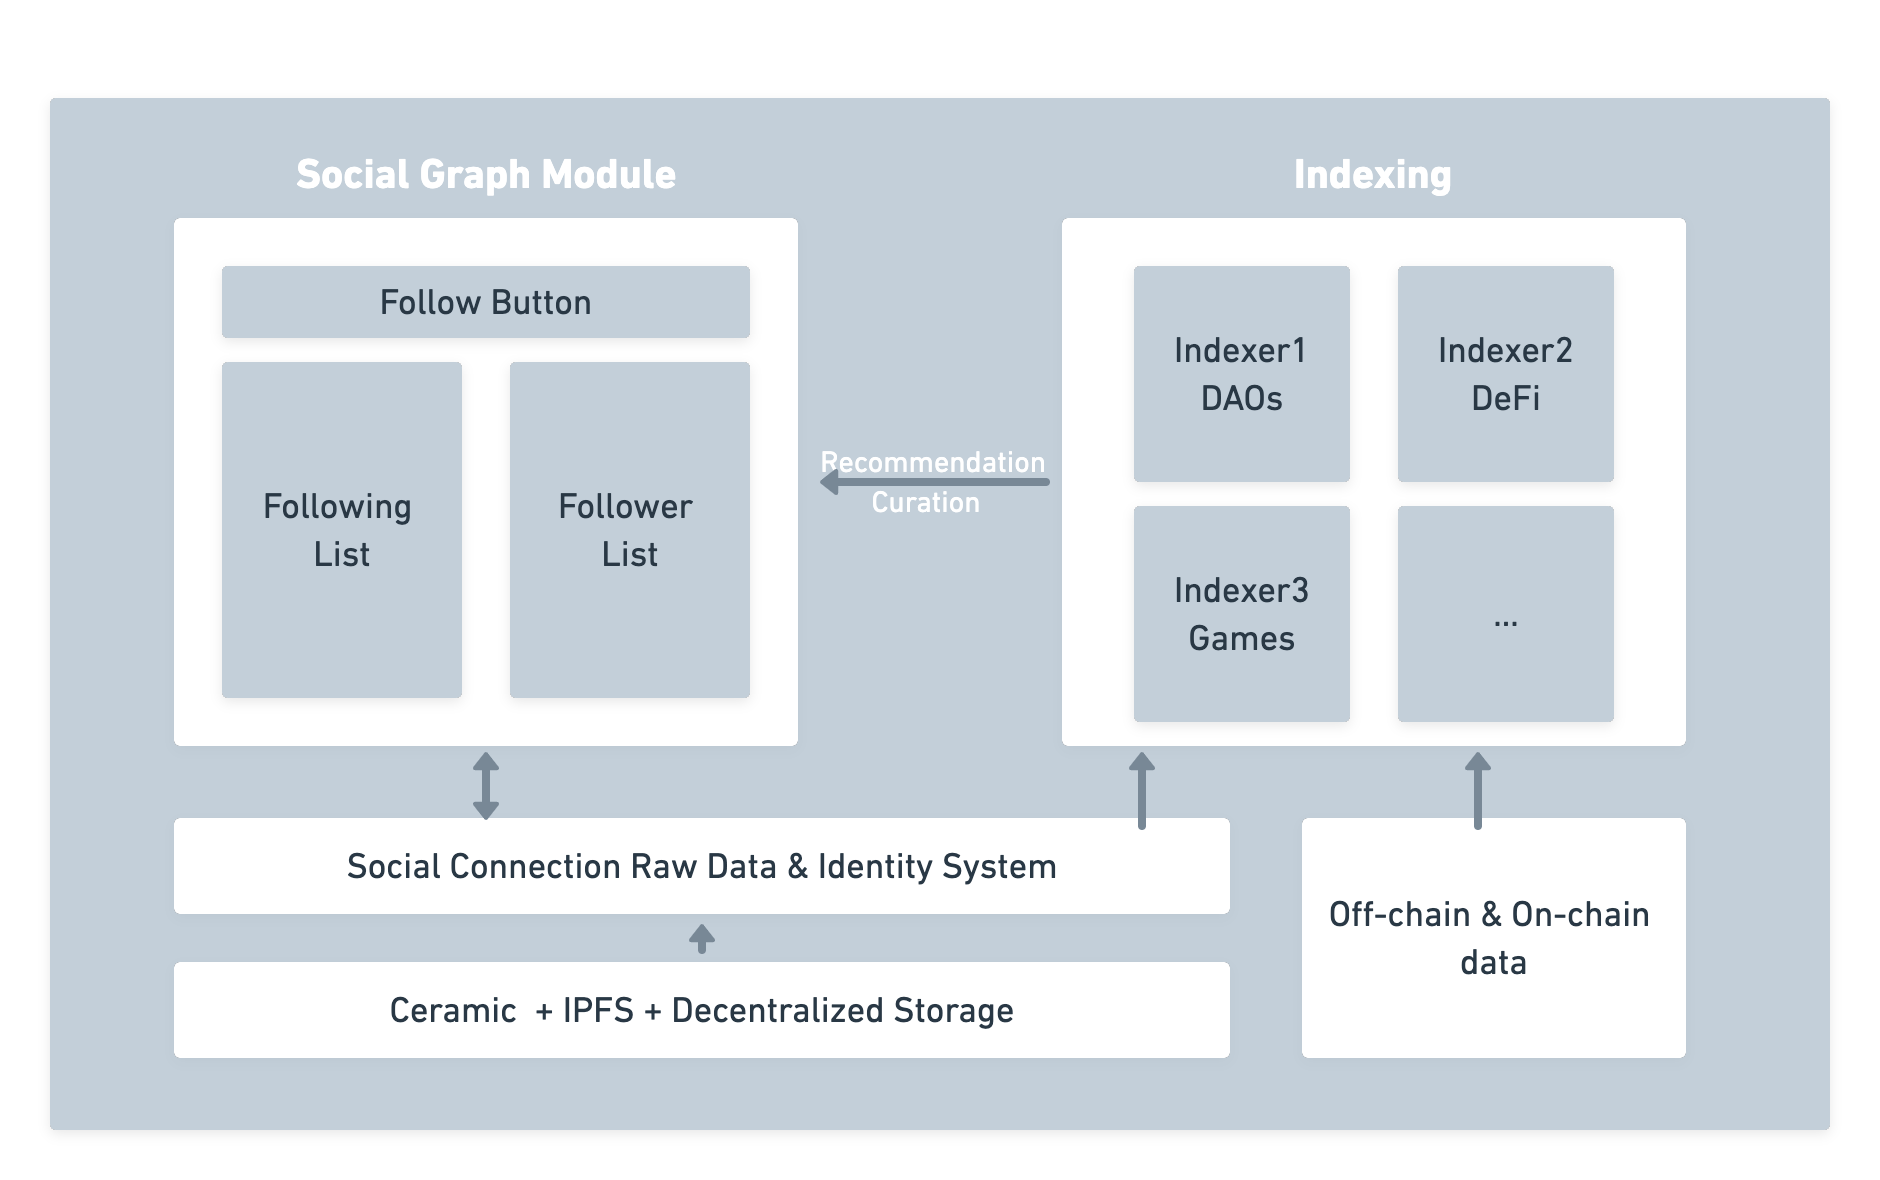
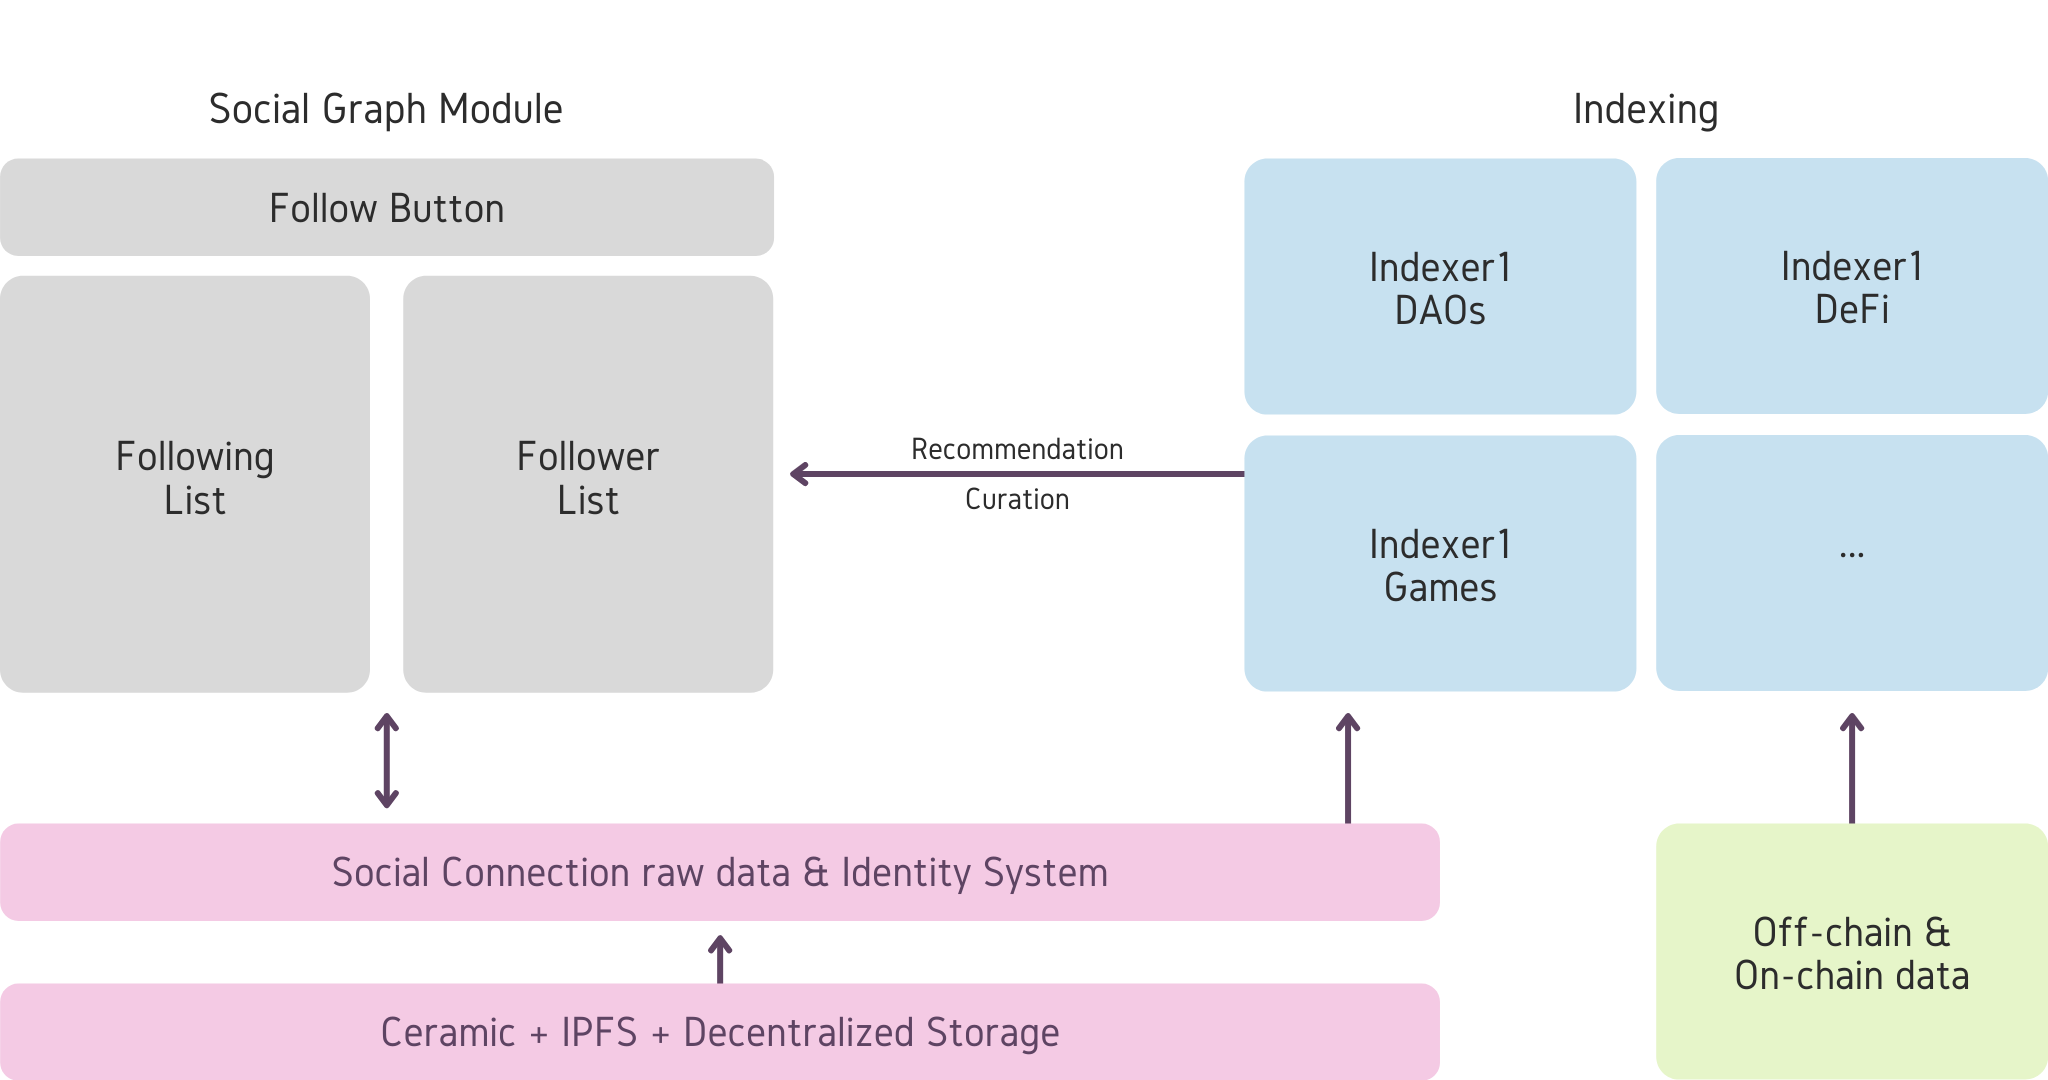
updated indexer pictures

diff --git a/docs/7. protocol/2. cyberconnect-indexer.md b/docs/7. protocol/2. cyberconnect-indexer.md
@@ -24,7 +24,7 @@ The Aggregator reads data written by the Processor in relational databases, tran
 
 The Recommender adopts both unweighted (by the popularity in the whole network, etc.) and weighted (asset-based, action-based, etc.) recommendation algorithms to analyze potential relationships and make recommendations. It also supports customizable recommendation algorithms based on the host’s needs.
 
-![CyberConnect Indexer](../../static/img/docs/protocol/indexer2.jpg)
+![CyberConnect Indexer](../../static/img/docs/protocol/indexer2.png)
 
 The Querier serves three main purposes: providing identity data, providing relationship data, and connection recommendations. It retrieves data from graph databases, gets recommendation results from the Recommender, and returns data in the way requested.
 
